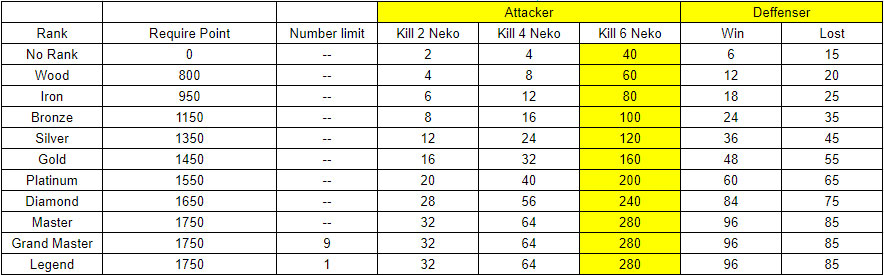
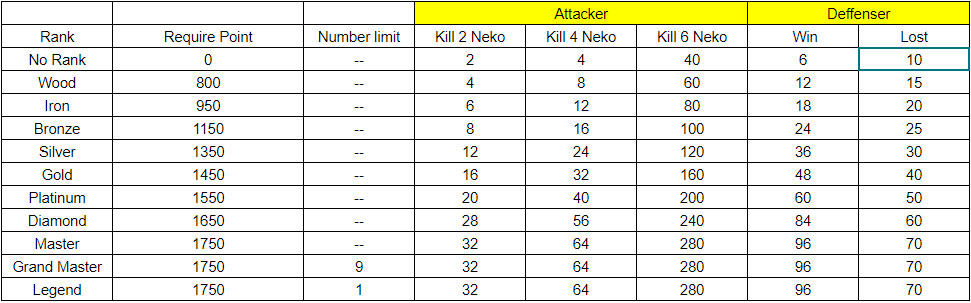
new arena

Changed region(s): [[0.0, 0.0, 1.0, 1.0]]

diff --git a/resources/js/config.js b/resources/js/config.js
@@ -1,1 +1,1 @@
-var __DOCS_CONFIG__ = {"id":"spem+d4hTPFeI0G8lPB3AmnaArAo23318sW","base":"/whitepaper/","version":"1.0.0","sidebarFilterPlaceholder":"Filter","toolbarFilterPlaceholder":"Filter","showSidebarFilter":true,"filterNotFoundMsg":"No member names found containing the query \"{query}\"","maxHistoryItems":15,"scrollOffset":20,"homeIcon":"<path d=\"M12.97 2.59a1.5 1.5 0 00-1.94 169 0l-7.5 6.363A1.5 1.5 0 003 10.097V19.5A1.5 1.5 0 004.5 21h4.75a.75.75 0 00.75-.75V14h4v6.25c0 .414.336.75.75.75h4.75a1.5 1.5 0 001.5-1.5v-9.403a1.5 1.5 0 00-.53-1.144l-7.5-6.363z\"></path>","access":[{"value":"public","label":"Public"},{"value":"protected","label":"Protected"}],"toolbarLinks":[{"id":"fields","label":"Fields"},{"id":"properties","label":"Properties","shortLabel":"Props"},{"id":"methods","label":"Methods"},{"id":"events","label":"Events"}],"sidebar":[{"n":"/","l":"Introduction","s":"<path fill-rule=\"evenodd\" d=\"M11.03 2.59a1.5 1.5 0 011.94 0l7.5 6.363a1.5 1.5 0 01.53 1.144V19.5a1.5 1.5 0 01-1.5 1.5h-5.75a.75.75 0 01-.75-.75V14h-2v6.25a.75.75 0 01-.75.75H4.5A1.5 1.5 0 013 19.5v-9.403c0-.44.194-.859.53-1.144l7.5-6.363zM12 3.734l-7.5 6.363V19.5h5v-6.25a.75.75 0 01.75-.75h3.5a.75.75 0 01.75.75v6.25h5v-9.403L12 3.734z\"/>"},{"n":"ninneko","l":"Ninneko","c":false,"o":true,"i":[{"n":"getninneko","l":"Get a Ninneko"},{"n":"classify","l":"Ninneko classify"},{"n":"attributes","l":"Cattributes"},{"n":"breed","l":"Breeding"}],"s":"<path fill-rule=\"evenodd\" d=\"M0 3.75A.75.75 0 01.75 3h7.497c1.566 0 2.945.8 3.751 2.014A4.496 4.496 0 0115.75 3h7.5a.75.75 0 01.75.75v15.063a.75.75 0 01-.755.75l-7.682-.052a3 3 0 00-2.142.878l-.89.891a.75.75 0 01-1.061 0l-.902-.901a3 3 0 00-2.121-.879H.75a.75.75 0 01-.75-.75v-15zm11.247 3.747a3 3 0 00-3-2.997H1.5V18h6.947a4.5 4.5 0 012.803.98l-.003-11.483zm1.503 11.485V7.5a3 3 0 013-3h6.75v13.558l-6.927-.047a4.5 4.5 0 00-2.823.971z\"/>"},{"n":"gameplay","l":"Gameplay","c":false,"o":true,"i":[{"n":"idle","l":"Idle RPG System"},{"n":"earn","l":"Play to earn"},{"n":"campaign","l":"Campaign"},{"n":"battling","l":"Battling","c":false,"o":true,"i":[{"n":"battle","l":"Battling"},{"n":"aura","l":"Aura"},{"n":"effects","l":"Effects"},{"n":"skills","l":"Skills"}]},{"n":"equipment","l":"Equipment"},{"n":"upgrade","l":"Upgrade Ninneko"},{"n":"other","l":"Other features"},{"n":"events","l":"Events"},{"n":"invite","l":"Invite Friends to Play"},{"n":"arena","l":"Arena","c":false,"i":[{"n":"arenaintro","l":"Rules"},{"n":"arenaprize","l":"Prizes"}]}],"s":"<path fill-rule=\"evenodd\" d=\"M1.513 1.96a1.374 1.374 0 011.499-.21l19.335 9.215a1.146 1.146 0 010 2.07L3.012 22.25a1.374 1.374 0 01-1.947-1.46L2.49 12 1.065 3.21a1.374 1.374 0 01.448-1.25zm2.375 10.79l-1.304 8.042L21.031 12 2.584 3.208l1.304 8.042h7.362a.75.75 0 010 1.5H3.888z\"/>"},{"n":"market-place","l":"Market Place","c":false,"o":true,"i":[{"n":"intro","l":"Buy and Sell"},{"n":"claim","l":"Claim MATA"}],"s":"<path fill-rule=\"evenodd\" d=\"M12.75 2.75a.75.75 0 00-1.5 0V4.5H9.276a1.75 1.75 0 00-.985.303L6.596 5.957A.25.25 0 016.455 6H2.353a.75.75 0 100 1.5H3.93L.563 15.18a.762.762 0 00.21.88c.08.064.161.125.309.221.186.121.452.278.792.433.68.311 1.662.62 2.876.62a6.919 6.919 0 002.876-.62c.34-.155.606-.312.792-.433.15-.097.23-.158.31-.223a.75.75 0 00.209-.878L5.569 7.5h.886c.351 0 .694-.106.984-.303l1.696-1.154A.25.25 0 019.275 6h1.975v14.5H6.763a.75.75 0 000 1.5h10.474a.75.75 0 000-1.5H12.75V6h1.974c.05 0 .1.015.14.043l1.697 1.154c.29.197.633.303.984.303h.886l-3.368 7.68a.75.75 0 00.23.896c.012.009 0 0 .002 0a3.154 3.154 0 00.31.206c.185.112.45.256.79.4a7.343 7.343 0 002.855.568 7.343 7.343 0 002.856-.569c.338-.143.604-.287.79-.399a3.5 3.5 0 00.31-.206.75.75 0 00.23-.896L20.07 7.5h1.578a.75.75 0 000-1.5h-4.102a.25.25 0 01-.14-.043l-1.697-1.154a1.75 1.75 0 00-.984-.303H12.75V2.75zM2.193 15.198a5.418 5.418 0 002.557.635 5.418 5.418 0 002.557-.635L4.75 9.368l-2.557 5.83zm14.51-.024c.082.04.174.083.275.126.53.223 1.305.45 2.272.45a5.846 5.846 0 002.547-.576L19.25 9.367l-2.547 5.807z\"/>"},{"n":"tokenomics","l":"Tokenomics","c":false,"o":true,"i":[{"n":"mata","l":"MATA Token"},{"n":"nino","l":"NINO Token"},{"n":"metric","l":"Token Metric"},{"n":"wallet","l":"Wallets"}],"s":"<path fill-rule=\"evenodd\" d=\"M5.873 3.26A.75.75 0 016.44 3h11.31a.75.75 0 01.576.27l5 6a.75.75 0 01-.028.992l-10.75 11.5a.75.75 0 01-1.096 0l-10.75-11.5a.75.75 0 01-.02-1.003l5.19-6zm.91 1.24L2.258 9.73 12 20.153l9.75-10.43L17.399 4.5H6.783z\"/>"},{"n":"terms","l":"Terms","c":false,"o":true,"i":[{"n":"terms","l":"Terms of Use"},{"n":"policy","l":"Privacy Policy"}],"s":"<path d=\"M3.5 3.75a.25.25 0 01.25-.25h13.5a.25.25 0 01.25.25v10a.75.75 0 001.5 0v-10A1.75 1.75 0 0017.25 2H3.75A1.75 1.75 0 002 3.75v16.5c0 .966.784 1.75 1.75 1.75h7a.75.75 0 000-1.5h-7a.25.25 0 01-.25-.25V3.75z\"/><path d=\"M6.25 7a.75.75 0 000 1.5h8.5a.75.75 0 000-1.5h-8.5zm-.75 4.75a.75.75 0 01.75-.75h4.5a.75.75 0 010 1.5h-4.5a.75.75 0 01-.75-.75zm16.28 4.53a.75.75 0 10-1.06-1.06l-4.97 4.97-1.97-1.97a.75.75 0 10-1.06 1.06l2.5 2.5a.75.75 0 001.06 0l5.5-5.5z\"/>"},{"n":"team","l":"Team","s":"<path fill-rule=\"evenodd\" d=\"M3.5 8a5.5 5.5 0 118.596 4.547 9.005 9.005 0 015.9 8.18.75.75 0 01-1.5.045 7.5 7.5 0 00-14.993 0 .75.75 0 01-1.499-.044 9.005 9.005 0 015.9-8.181A5.494 5.494 0 013.5 8zM9 4a4 4 0 100 8 4 4 0 000-8z\"/><path d=\"M17.29 8c-.148 0-.292.01-.434.03a.75.75 0 11-.212-1.484 4.53 4.53 0 013.38 8.097 6.69 6.69 0 013.956 6.107.75.75 0 01-1.5 0 5.193 5.193 0 00-3.696-4.972l-.534-.16v-1.676l.41-.209A3.03 3.03 0 0017.29 8z\"/>"}],"search":{"minChars":3,"maxResults":20,"placeholder":"Search","hotkeys":["/"],"noResultsFoundMsg":"Sorry, no results found."}};
+var __DOCS_CONFIG__ = {"id":"LBuKW233RfU2bzbTTIL2ztuZ+eBIv2H97Y7","base":"/whitepaper/","version":"1.0.0","sidebarFilterPlaceholder":"Filter","toolbarFilterPlaceholder":"Filter","showSidebarFilter":true,"filterNotFoundMsg":"No member names found containing the query \"{query}\"","maxHistoryItems":15,"scrollOffset":20,"homeIcon":"<path d=\"M12.97 2.59a1.5 1.5 0 00-1.94 169 0l-7.5 6.363A1.5 1.5 0 003 10.097V19.5A1.5 1.5 0 004.5 21h4.75a.75.75 0 00.75-.75V14h4v6.25c0 .414.336.75.75.75h4.75a1.5 1.5 0 001.5-1.5v-9.403a1.5 1.5 0 00-.53-1.144l-7.5-6.363z\"></path>","access":[{"value":"public","label":"Public"},{"value":"protected","label":"Protected"}],"toolbarLinks":[{"id":"fields","label":"Fields"},{"id":"properties","label":"Properties","shortLabel":"Props"},{"id":"methods","label":"Methods"},{"id":"events","label":"Events"}],"sidebar":[{"n":"/","l":"Introduction","s":"<path fill-rule=\"evenodd\" d=\"M11.03 2.59a1.5 1.5 0 011.94 0l7.5 6.363a1.5 1.5 0 01.53 1.144V19.5a1.5 1.5 0 01-1.5 1.5h-5.75a.75.75 0 01-.75-.75V14h-2v6.25a.75.75 0 01-.75.75H4.5A1.5 1.5 0 013 19.5v-9.403c0-.44.194-.859.53-1.144l7.5-6.363zM12 3.734l-7.5 6.363V19.5h5v-6.25a.75.75 0 01.75-.75h3.5a.75.75 0 01.75.75v6.25h5v-9.403L12 3.734z\"/>"},{"n":"ninneko","l":"Ninneko","c":false,"o":true,"i":[{"n":"getninneko","l":"Get a Ninneko"},{"n":"classify","l":"Ninneko classify"},{"n":"attributes","l":"Cattributes"},{"n":"breed","l":"Breeding"}],"s":"<path fill-rule=\"evenodd\" d=\"M0 3.75A.75.75 0 01.75 3h7.497c1.566 0 2.945.8 3.751 2.014A4.496 4.496 0 0115.75 3h7.5a.75.75 0 01.75.75v15.063a.75.75 0 01-.755.75l-7.682-.052a3 3 0 00-2.142.878l-.89.891a.75.75 0 01-1.061 0l-.902-.901a3 3 0 00-2.121-.879H.75a.75.75 0 01-.75-.75v-15zm11.247 3.747a3 3 0 00-3-2.997H1.5V18h6.947a4.5 4.5 0 012.803.98l-.003-11.483zm1.503 11.485V7.5a3 3 0 013-3h6.75v13.558l-6.927-.047a4.5 4.5 0 00-2.823.971z\"/>"},{"n":"gameplay","l":"Gameplay","c":false,"o":true,"i":[{"n":"idle","l":"Idle RPG System"},{"n":"earn","l":"Play to earn"},{"n":"campaign","l":"Campaign"},{"n":"battling","l":"Battling","c":false,"o":true,"i":[{"n":"battle","l":"Battling"},{"n":"aura","l":"Aura"},{"n":"effects","l":"Effects"},{"n":"skills","l":"Skills"}]},{"n":"equipment","l":"Equipment"},{"n":"upgrade","l":"Upgrade Ninneko"},{"n":"other","l":"Other features"},{"n":"events","l":"Events"},{"n":"invite","l":"Invite Friends to Play"},{"n":"arena","l":"Arena","c":false,"i":[{"n":"arenaintro","l":"Rules"},{"n":"arenaprize","l":"Prizes"}]}],"s":"<path fill-rule=\"evenodd\" d=\"M1.513 1.96a1.374 1.374 0 011.499-.21l19.335 9.215a1.146 1.146 0 010 2.07L3.012 22.25a1.374 1.374 0 01-1.947-1.46L2.49 12 1.065 3.21a1.374 1.374 0 01.448-1.25zm2.375 10.79l-1.304 8.042L21.031 12 2.584 3.208l1.304 8.042h7.362a.75.75 0 010 1.5H3.888z\"/>"},{"n":"market-place","l":"Market Place","c":false,"o":true,"i":[{"n":"intro","l":"Buy and Sell"},{"n":"claim","l":"Claim MATA"}],"s":"<path fill-rule=\"evenodd\" d=\"M12.75 2.75a.75.75 0 00-1.5 0V4.5H9.276a1.75 1.75 0 00-.985.303L6.596 5.957A.25.25 0 016.455 6H2.353a.75.75 0 100 1.5H3.93L.563 15.18a.762.762 0 00.21.88c.08.064.161.125.309.221.186.121.452.278.792.433.68.311 1.662.62 2.876.62a6.919 6.919 0 002.876-.62c.34-.155.606-.312.792-.433.15-.097.23-.158.31-.223a.75.75 0 00.209-.878L5.569 7.5h.886c.351 0 .694-.106.984-.303l1.696-1.154A.25.25 0 019.275 6h1.975v14.5H6.763a.75.75 0 000 1.5h10.474a.75.75 0 000-1.5H12.75V6h1.974c.05 0 .1.015.14.043l1.697 1.154c.29.197.633.303.984.303h.886l-3.368 7.68a.75.75 0 00.23.896c.012.009 0 0 .002 0a3.154 3.154 0 00.31.206c.185.112.45.256.79.4a7.343 7.343 0 002.855.568 7.343 7.343 0 002.856-.569c.338-.143.604-.287.79-.399a3.5 3.5 0 00.31-.206.75.75 0 00.23-.896L20.07 7.5h1.578a.75.75 0 000-1.5h-4.102a.25.25 0 01-.14-.043l-1.697-1.154a1.75 1.75 0 00-.984-.303H12.75V2.75zM2.193 15.198a5.418 5.418 0 002.557.635 5.418 5.418 0 002.557-.635L4.75 9.368l-2.557 5.83zm14.51-.024c.082.04.174.083.275.126.53.223 1.305.45 2.272.45a5.846 5.846 0 002.547-.576L19.25 9.367l-2.547 5.807z\"/>"},{"n":"tokenomics","l":"Tokenomics","c":false,"o":true,"i":[{"n":"mata","l":"MATA Token"},{"n":"nino","l":"NINO Token"},{"n":"metric","l":"Token Metric"},{"n":"wallet","l":"Wallets"}],"s":"<path fill-rule=\"evenodd\" d=\"M5.873 3.26A.75.75 0 016.44 3h11.31a.75.75 0 01.576.27l5 6a.75.75 0 01-.028.992l-10.75 11.5a.75.75 0 01-1.096 0l-10.75-11.5a.75.75 0 01-.02-1.003l5.19-6zm.91 1.24L2.258 9.73 12 20.153l9.75-10.43L17.399 4.5H6.783z\"/>"},{"n":"terms","l":"Terms","c":false,"o":true,"i":[{"n":"terms","l":"Terms of Use"},{"n":"policy","l":"Privacy Policy"}],"s":"<path d=\"M3.5 3.75a.25.25 0 01.25-.25h13.5a.25.25 0 01.25.25v10a.75.75 0 001.5 0v-10A1.75 1.75 0 0017.25 2H3.75A1.75 1.75 0 002 3.75v16.5c0 .966.784 1.75 1.75 1.75h7a.75.75 0 000-1.5h-7a.25.25 0 01-.25-.25V3.75z\"/><path d=\"M6.25 7a.75.75 0 000 1.5h8.5a.75.75 0 000-1.5h-8.5zm-.75 4.75a.75.75 0 01.75-.75h4.5a.75.75 0 010 1.5h-4.5a.75.75 0 01-.75-.75zm16.28 4.53a.75.75 0 10-1.06-1.06l-4.97 4.97-1.97-1.97a.75.75 0 10-1.06 1.06l2.5 2.5a.75.75 0 001.06 0l5.5-5.5z\"/>"},{"n":"team","l":"Team","s":"<path fill-rule=\"evenodd\" d=\"M3.5 8a5.5 5.5 0 118.596 4.547 9.005 9.005 0 015.9 8.18.75.75 0 01-1.5.045 7.5 7.5 0 00-14.993 0 .75.75 0 01-1.499-.044 9.005 9.005 0 015.9-8.181A5.494 5.494 0 013.5 8zM9 4a4 4 0 100 8 4 4 0 000-8z\"/><path d=\"M17.29 8c-.148 0-.292.01-.434.03a.75.75 0 11-.212-1.484 4.53 4.53 0 013.38 8.097 6.69 6.69 0 013.956 6.107.75.75 0 01-1.5 0 5.193 5.193 0 00-3.696-4.972l-.534-.16v-1.676l.41-.209A3.03 3.03 0 0017.29 8z\"/>"}],"search":{"minChars":3,"maxResults":20,"placeholder":"Search","hotkeys":["/"],"noResultsFoundMsg":"Sorry, no results found."}};

diff --git a/gameplay/arena/arenaintro/index.html b/gameplay/arena/arenaintro/index.html
@@ -28,9 +28,9 @@
     <script>(function () { var el = document.documentElement, m = localStorage.getItem("/whitepaper/doc_theme"), wm = window.matchMedia; if (m === "dark" || (!m && wm && wm("(prefers-color-scheme: dark)").matches)) { el.classList.add("dark") } else { el.classList.remove("dark") } })();</script>
 
     <link href="/whitepaper/static/coin_nino.svg" rel="icon" />
-    <link href="/whitepaper/resources/css/retype.css?v=1.10.707383671711" rel="stylesheet" data-turbo-track="reload" />
+    <link href="/whitepaper/resources/css/retype.css?v=1.10.707392559209" rel="stylesheet" data-turbo-track="reload" />
 
-    <script type="text/javascript" src="/whitepaper/resources/js/config.js?v=1.10.707383671711" defer data-turbo-track="reload"></script>
+    <script type="text/javascript" src="/whitepaper/resources/js/config.js?v=1.10.707392559209" defer data-turbo-track="reload"></script>
     <script type="text/javascript" src="/whitepaper/resources/js/retype.js?v=1.10" defer data-turbo-track="reload"></script>
 </head>
     <body>
@@ -236,21 +236,16 @@
 <li><p>Skip the match will still deduct 10 Arena points each time.</p>
 </li>
 </ul>
-<doc-anchor-target id="deduct-more-arena-points-when-the-defense-loses-consecutively">
+<doc-anchor-target id="reduces-mata-when-losing-in-defense">
     <h4>
-        <doc-anchor-trigger class="header-anchor-trigger" to="#deduct-more-arena-points-when-the-defense-loses-consecutively">#</doc-anchor-trigger>
-        <span>Deduct more Arena points when the defense loses consecutively:</span>
+        <doc-anchor-trigger class="header-anchor-trigger" to="#reduces-mata-when-losing-in-defense">#</doc-anchor-trigger>
+        <span>Reduces MATA when losing in defense</span>
     </h4>
 </doc-anchor-target>
 <ul>
-<li><p>Lose 3 matches in a row: deduct 4 more points for each loss</p>
-</li>
-<li><p>Lose 4 matches in a row: deduct 5 more points for each loss</p>
-</li>
-<li><p>Lose 5 matches in a row: deduct 7 more points for each loss</p>
-</li>
-<li><p>Loss of 6 consecutive matches or more: 9 points will be deducted for each loss</p>
-</li>
+<li>When your defense formation loses: deduct 25% of the MATA winning reward at the corresponding rank of the attacker (in-game MATA)</li>
+<li>If your in-game account doesn’t have enough MATA to deduct (0 MATA for example), you won’t lose MATA.</li>
+<li>Protection mechanism for new players: New players will have 14 days without losing Mata in defense mode.</li>
 </ul>
 
 

diff --git a/gameplay/earn/index.html b/gameplay/earn/index.html
@@ -26,9 +26,9 @@
     <script>(function () { var el = document.documentElement, m = localStorage.getItem("/whitepaper/doc_theme"), wm = window.matchMedia; if (m === "dark" || (!m && wm && wm("(prefers-color-scheme: dark)").matches)) { el.classList.add("dark") } else { el.classList.remove("dark") } })();</script>
 
     <link href="/whitepaper/static/coin_nino.svg" rel="icon" />
-    <link href="/whitepaper/resources/css/retype.css?v=1.10.707383671711" rel="stylesheet" data-turbo-track="reload" />
+    <link href="/whitepaper/resources/css/retype.css?v=1.10.707392559209" rel="stylesheet" data-turbo-track="reload" />
 
-    <script type="text/javascript" src="/whitepaper/resources/js/config.js?v=1.10.707383671711" defer data-turbo-track="reload"></script>
+    <script type="text/javascript" src="/whitepaper/resources/js/config.js?v=1.10.707392559209" defer data-turbo-track="reload"></script>
     <script type="text/javascript" src="/whitepaper/resources/js/retype.js?v=1.10" defer data-turbo-track="reload"></script>
     <script id="mermaid-js" type="text/javascript" src="/whitepaper/resources/js/mermaid.js?v=1.10" defer></script>
 </head>

diff --git a/tokenomics/mata/index.html b/tokenomics/mata/index.html
@@ -28,9 +28,9 @@
     <script>(function () { var el = document.documentElement, m = localStorage.getItem("/whitepaper/doc_theme"), wm = window.matchMedia; if (m === "dark" || (!m && wm && wm("(prefers-color-scheme: dark)").matches)) { el.classList.add("dark") } else { el.classList.remove("dark") } })();</script>
 
     <link href="/whitepaper/static/coin_nino.svg" rel="icon" />
-    <link href="/whitepaper/resources/css/retype.css?v=1.10.707383671711" rel="stylesheet" data-turbo-track="reload" />
+    <link href="/whitepaper/resources/css/retype.css?v=1.10.707392559209" rel="stylesheet" data-turbo-track="reload" />
 
-    <script type="text/javascript" src="/whitepaper/resources/js/config.js?v=1.10.707383671711" defer data-turbo-track="reload"></script>
+    <script type="text/javascript" src="/whitepaper/resources/js/config.js?v=1.10.707392559209" defer data-turbo-track="reload"></script>
     <script type="text/javascript" src="/whitepaper/resources/js/retype.js?v=1.10" defer data-turbo-track="reload"></script>
     <script id="mermaid-js" type="text/javascript" src="/whitepaper/resources/js/mermaid.js?v=1.10" defer></script>
 </head>

diff --git a/tokenomics/nino/index.html b/tokenomics/nino/index.html
@@ -28,9 +28,9 @@
     <script>(function () { var el = document.documentElement, m = localStorage.getItem("/whitepaper/doc_theme"), wm = window.matchMedia; if (m === "dark" || (!m && wm && wm("(prefers-color-scheme: dark)").matches)) { el.classList.add("dark") } else { el.classList.remove("dark") } })();</script>
 
     <link href="/whitepaper/static/coin_nino.svg" rel="icon" />
-    <link href="/whitepaper/resources/css/retype.css?v=1.10.707383671711" rel="stylesheet" data-turbo-track="reload" />
+    <link href="/whitepaper/resources/css/retype.css?v=1.10.707392559209" rel="stylesheet" data-turbo-track="reload" />
 
-    <script type="text/javascript" src="/whitepaper/resources/js/config.js?v=1.10.707383671711" defer data-turbo-track="reload"></script>
+    <script type="text/javascript" src="/whitepaper/resources/js/config.js?v=1.10.707392559209" defer data-turbo-track="reload"></script>
     <script type="text/javascript" src="/whitepaper/resources/js/retype.js?v=1.10" defer data-turbo-track="reload"></script>
     <script id="mermaid-js" type="text/javascript" src="/whitepaper/resources/js/mermaid.js?v=1.10" defer></script>
 </head>

diff --git a/404.html b/404.html
@@ -23,9 +23,9 @@
     <script>(function () { var el = document.documentElement, m = localStorage.getItem("/whitepaper/doc_theme"), wm = window.matchMedia; if (m === "dark" || (!m && wm && wm("(prefers-color-scheme: dark)").matches)) { el.classList.add("dark") } else { el.classList.remove("dark") } })();</script>
 
     <link href="/whitepaper/static/coin_nino.svg" rel="icon" />
-    <link href="/whitepaper/resources/css/retype.css?v=1.10.707383671711" rel="stylesheet" data-turbo-track="reload" />
+    <link href="/whitepaper/resources/css/retype.css?v=1.10.707392559209" rel="stylesheet" data-turbo-track="reload" />
 
-    <script type="text/javascript" src="/whitepaper/resources/js/config.js?v=1.10.707383671711" defer data-turbo-track="reload"></script>
+    <script type="text/javascript" src="/whitepaper/resources/js/config.js?v=1.10.707392559209" defer data-turbo-track="reload"></script>
     <script type="text/javascript" src="/whitepaper/resources/js/retype.js?v=1.10" defer data-turbo-track="reload"></script>
 </head>
     <body>

diff --git a/gameplay/arena/arenaprize/index.html b/gameplay/arena/arenaprize/index.html
@@ -26,9 +26,9 @@
     <script>(function () { var el = document.documentElement, m = localStorage.getItem("/whitepaper/doc_theme"), wm = window.matchMedia; if (m === "dark" || (!m && wm && wm("(prefers-color-scheme: dark)").matches)) { el.classList.add("dark") } else { el.classList.remove("dark") } })();</script>
 
     <link href="/whitepaper/static/coin_nino.svg" rel="icon" />
-    <link href="/whitepaper/resources/css/retype.css?v=1.10.707383671711" rel="stylesheet" data-turbo-track="reload" />
+    <link href="/whitepaper/resources/css/retype.css?v=1.10.707392559209" rel="stylesheet" data-turbo-track="reload" />
 
-    <script type="text/javascript" src="/whitepaper/resources/js/config.js?v=1.10.707383671711" defer data-turbo-track="reload"></script>
+    <script type="text/javascript" src="/whitepaper/resources/js/config.js?v=1.10.707392559209" defer data-turbo-track="reload"></script>
     <script type="text/javascript" src="/whitepaper/resources/js/retype.js?v=1.10" defer data-turbo-track="reload"></script>
 </head>
     <body>

diff --git a/gameplay/battling/aura/index.html b/gameplay/battling/aura/index.html
@@ -28,9 +28,9 @@
     <script>(function () { var el = document.documentElement, m = localStorage.getItem("/whitepaper/doc_theme"), wm = window.matchMedia; if (m === "dark" || (!m && wm && wm("(prefers-color-scheme: dark)").matches)) { el.classList.add("dark") } else { el.classList.remove("dark") } })();</script>
 
     <link href="/whitepaper/static/coin_nino.svg" rel="icon" />
-    <link href="/whitepaper/resources/css/retype.css?v=1.10.707383671711" rel="stylesheet" data-turbo-track="reload" />
+    <link href="/whitepaper/resources/css/retype.css?v=1.10.707392559209" rel="stylesheet" data-turbo-track="reload" />
 
-    <script type="text/javascript" src="/whitepaper/resources/js/config.js?v=1.10.707383671711" defer data-turbo-track="reload"></script>
+    <script type="text/javascript" src="/whitepaper/resources/js/config.js?v=1.10.707392559209" defer data-turbo-track="reload"></script>
     <script type="text/javascript" src="/whitepaper/resources/js/retype.js?v=1.10" defer data-turbo-track="reload"></script>
 </head>
     <body>

diff --git a/gameplay/battling/battle/index.html b/gameplay/battling/battle/index.html
@@ -28,9 +28,9 @@
     <script>(function () { var el = document.documentElement, m = localStorage.getItem("/whitepaper/doc_theme"), wm = window.matchMedia; if (m === "dark" || (!m && wm && wm("(prefers-color-scheme: dark)").matches)) { el.classList.add("dark") } else { el.classList.remove("dark") } })();</script>
 
     <link href="/whitepaper/static/coin_nino.svg" rel="icon" />
-    <link href="/whitepaper/resources/css/retype.css?v=1.10.707383671711" rel="stylesheet" data-turbo-track="reload" />
+    <link href="/whitepaper/resources/css/retype.css?v=1.10.707392559209" rel="stylesheet" data-turbo-track="reload" />
 
-    <script type="text/javascript" src="/whitepaper/resources/js/config.js?v=1.10.707383671711" defer data-turbo-track="reload"></script>
+    <script type="text/javascript" src="/whitepaper/resources/js/config.js?v=1.10.707392559209" defer data-turbo-track="reload"></script>
     <script type="text/javascript" src="/whitepaper/resources/js/retype.js?v=1.10" defer data-turbo-track="reload"></script>
 </head>
     <body>

diff --git a/gameplay/battling/effects/index.html b/gameplay/battling/effects/index.html
@@ -28,9 +28,9 @@
     <script>(function () { var el = document.documentElement, m = localStorage.getItem("/whitepaper/doc_theme"), wm = window.matchMedia; if (m === "dark" || (!m && wm && wm("(prefers-color-scheme: dark)").matches)) { el.classList.add("dark") } else { el.classList.remove("dark") } })();</script>
 
     <link href="/whitepaper/static/coin_nino.svg" rel="icon" />
-    <link href="/whitepaper/resources/css/retype.css?v=1.10.707383671711" rel="stylesheet" data-turbo-track="reload" />
+    <link href="/whitepaper/resources/css/retype.css?v=1.10.707392559209" rel="stylesheet" data-turbo-track="reload" />
 
-    <script type="text/javascript" src="/whitepaper/resources/js/config.js?v=1.10.707383671711" defer data-turbo-track="reload"></script>
+    <script type="text/javascript" src="/whitepaper/resources/js/config.js?v=1.10.707392559209" defer data-turbo-track="reload"></script>
     <script type="text/javascript" src="/whitepaper/resources/js/retype.js?v=1.10" defer data-turbo-track="reload"></script>
 </head>
     <body>

diff --git a/gameplay/battling/skills/index.html b/gameplay/battling/skills/index.html
@@ -28,9 +28,9 @@
     <script>(function () { var el = document.documentElement, m = localStorage.getItem("/whitepaper/doc_theme"), wm = window.matchMedia; if (m === "dark" || (!m && wm && wm("(prefers-color-scheme: dark)").matches)) { el.classList.add("dark") } else { el.classList.remove("dark") } })();</script>
 
     <link href="/whitepaper/static/coin_nino.svg" rel="icon" />
-    <link href="/whitepaper/resources/css/retype.css?v=1.10.707383671711" rel="stylesheet" data-turbo-track="reload" />
+    <link href="/whitepaper/resources/css/retype.css?v=1.10.707392559209" rel="stylesheet" data-turbo-track="reload" />
 
-    <script type="text/javascript" src="/whitepaper/resources/js/config.js?v=1.10.707383671711" defer data-turbo-track="reload"></script>
+    <script type="text/javascript" src="/whitepaper/resources/js/config.js?v=1.10.707392559209" defer data-turbo-track="reload"></script>
     <script type="text/javascript" src="/whitepaper/resources/js/retype.js?v=1.10" defer data-turbo-track="reload"></script>
 </head>
     <body>

diff --git a/gameplay/campaign/index.html b/gameplay/campaign/index.html
@@ -28,9 +28,9 @@
     <script>(function () { var el = document.documentElement, m = localStorage.getItem("/whitepaper/doc_theme"), wm = window.matchMedia; if (m === "dark" || (!m && wm && wm("(prefers-color-scheme: dark)").matches)) { el.classList.add("dark") } else { el.classList.remove("dark") } })();</script>
 
     <link href="/whitepaper/static/coin_nino.svg" rel="icon" />
-    <link href="/whitepaper/resources/css/retype.css?v=1.10.707383671711" rel="stylesheet" data-turbo-track="reload" />
+    <link href="/whitepaper/resources/css/retype.css?v=1.10.707392559209" rel="stylesheet" data-turbo-track="reload" />
 
-    <script type="text/javascript" src="/whitepaper/resources/js/config.js?v=1.10.707383671711" defer data-turbo-track="reload"></script>
+    <script type="text/javascript" src="/whitepaper/resources/js/config.js?v=1.10.707392559209" defer data-turbo-track="reload"></script>
     <script type="text/javascript" src="/whitepaper/resources/js/retype.js?v=1.10" defer data-turbo-track="reload"></script>
 </head>
     <body>
